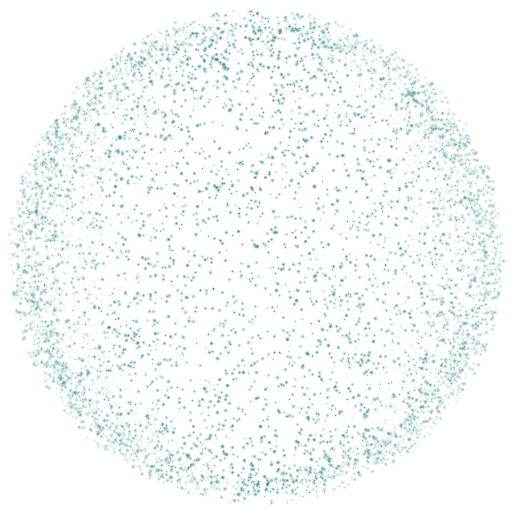
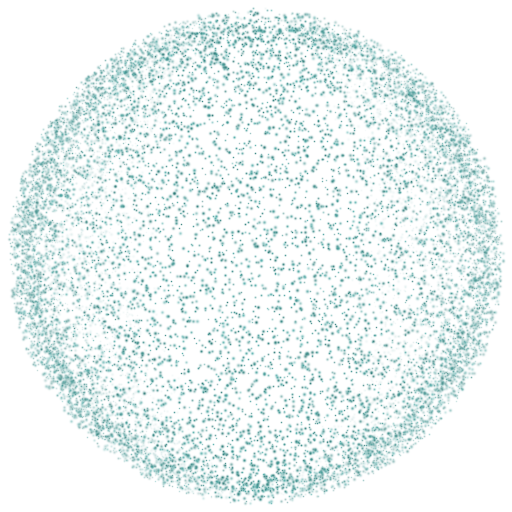
The orb is the button, and it has a body
THE WHOLE ORB IS THE TARGET, so there is no control drawn inside it. The
label was a filled, rounded, bordered pill in the middle, which said the
PILL was what to press and the orb was decoration behind it. The
Pressable has always been the full 236pt disc; a control drawn inside a
control only tells people to aim for the smaller one. Just the words now,
in signalInk, the same teal the dots are made of, so they read as part of
the cloud rather than as something resting on it.

A BODY BEHIND THE DOTS. A sphere made only of its own surface has nothing
inside it, so the middle read as a gap rather than as the near face of
something solid. A radial fill of signal sits under the cloud now: pale
at the centre where you are looking through the most of it, gone by the
rim where the dots take over and describe the form themselves.

MORE DOTS. 9000 and 5200 to 19000 and 11000. The sphere was legible but
thin, which read as a ring with scatter inside rather than as a body. The
reference packs its torso tight enough that the dots merge into a surface
everywhere except at the edges of the form.

THE FLOW IS A FADE AND THE PARTICLES. It used to be the orb's own image
blown up to nearly twice the screen width and hung above the top edge so
its bleed washed down the page, under a gradient, under a static noise
tile: three layers competing to be the background of a form somebody is
trying to type into. The orb does not belong there either -- it is the
[…]

diff --git a/app/src/components/grain.tsx b/app/src/components/grain.tsx
@@ -318,6 +318,27 @@ export function GrainOrb({ burst }: { burst?: Animated.Value }) {
         ],
       }}
     >
+      {/*
+        A body behind the dots.
+
+        The cloud on its own is just dots on the page, and a sphere made
+        only of its own surface has nothing inside it: the middle read as
+        a gap rather than as the near face of something solid. This is the
+        volume the dots are the surface OF -- pale at the centre where you
+        are looking through the most of it, gone by the rim where the dots
+        take over and do the describing themselves.
+      */}
+      <Svg width={ORB} height={ORB} style={{ position: "absolute" }} pointerEvents="none">
+        <Defs>
+          <RadialGradient id="orbBody" cx="50%" cy="50%" r="50%">
+            <Stop offset="0" stopColor={colors.signal} stopOpacity={0.3} />
+            <Stop offset="0.62" stopColor={colors.signal} stopOpacity={0.17} />
+            <Stop offset="1" stopColor={colors.signal} stopOpacity={0} />
+          </RadialGradient>
+        </Defs>
+        <Rect width={ORB} height={ORB} fill="url(#orbBody)" />
+      </Svg>
+
       {[
         { src: CLOUD_A, spin: spinA, dir: 1, to: 1.9, op: 1 },
         { src: CLOUD_B, spin: spinB, dir: -1, to: 2.4, op: 0.85 },
@@ -362,46 +383,34 @@ export function GrainOrb({ burst }: { burst?: Animated.Value }) {
 
 export function GrainWash() {
   const { width, height } = useWindowDimensions();
-  const spin = useLoop(44000);
 
-  /* Oversized and hung above the screen: only the bleed reaches the page. */
-  const size = width * 1.9;
+  /*
+    A fade and the particles, and nothing else.
 
+    This used to be the orb's own image blown up to nearly twice the
+    screen width and hung above the top edge so its bleed washed down the
+    page, under a gradient, under a static noise tile. Three layers
+    competing to be the background of a form somebody is trying to type
+    into. The orb does not belong here: it is the thing you pressed to
+    GET here, and repeating it at four times the size behind the
+    questions turns a backdrop into a second subject.
+
+    So: white at the top where the question sits, the app teal at the
+    bottom, and the same dots drifting over it that the orb is made of.
+  */
   return (
     <View style={{ position: "absolute", left: 0, top: 0, right: 0, bottom: 0 }} pointerEvents="none">
-      <Animated.Image
-        source={FIELD}
-        style={{
-          position: "absolute",
-          width: size,
-          height: size,
-          left: (width - size) / 2,
-          top: -size * 0.54,
-          transform: [{ rotate: spinTo(spin, 360) }],
-        }}
-      />
-
       <Svg width={width} height={height} style={{ position: "absolute" }}>
         <Defs>
           <LinearGradient id="washFade" x1="0" y1="0" x2="0" y2="1">
-            <Stop offset="0" stopColor={colors.bg} stopOpacity={0.5} />
-            <Stop offset="0.3" stopColor={colors.bg} stopOpacity={0.84} />
-            <Stop offset="0.58" stopColor={colors.bg} stopOpacity={1} />
+            <Stop offset="0" stopColor="#FFFFFF" stopOpacity={1} />
+            <Stop offset="0.42" stopColor={colors.signalFaint} stopOpacity={1} />
+            <Stop offset="1" stopColor={colors.signalDim} stopOpacity={1} />
           </LinearGradient>
         </Defs>
         <Rect width={width} height={height} fill="url(#washFade)" />
       </Svg>
 
-      {/*
-        The flow's only texture, and it moves.
-
-        There was a static noise tile over the whole screen at 0.42 here.
-        That was what anyone actually saw: a still photograph of grain,
-        with a few particles drifting somewhere behind it. No amount of
-        work on the moving layer shows through a still one laid on top at
-        that strength, so the still one is gone and the dust is denser to
-        take its place.
-      */}
       <DustField />
     </View>
   );

diff --git a/app/src/components/CheckinHero.tsx b/app/src/components/CheckinHero.tsx
@@ -236,29 +236,32 @@ export function CheckinHero({
           <GrainOrb burst={burst} />
 
           {/*
-            Solid, and the app's own teal.
+            The whole orb is the button, so there is no button in it.
 
-            It was a translucent dark pill, which worked when the orb was
-            a dark mass it could sink into. The orb is a pale cloud on a
-            pale page now, so a translucent control has nothing to sit
-            against and reads as a smudge. This is signalInk, the same
-            fill every other primary action in the app uses.
+            This was a pill: a filled, rounded, bordered control sitting
+            in the middle of the orb, which said that the PILL was the
+            target and the orb was decoration behind it. The opposite is
+            true. The Pressable has always been the full 236pt disc, and
+            a control drawn inside a control only tells people to aim for
+            the small one.
+
+            So: the words, and nothing else. No fill, no border, no
+            radius. They are set in signalInk, the same teal the dots are
+            made of, so they read as part of the cloud rather than as
+            something resting on top of it.
           */}
-          <Animated.View
+          <Animated.Text
             style={{
-              paddingHorizontal: 24,
-              paddingVertical: 13,
-              borderRadius: 999,
-              backgroundColor: colors.signalInk,
-
+              fontFamily: font.semibold,
+              fontSize: 17,
+              letterSpacing: 0.3,
+              color: colors.signalInk,
               /* Goes with the particles rather than sitting there as they leave. */
               opacity: burst.interpolate({ inputRange: [0, 0.45], outputRange: [1, 0], extrapolate: "clamp" }),
             }}
           >
-            <Text style={{ fontFamily: font.semibold, fontSize: 16, color: "#FFFFFF", letterSpacing: 0.2 }}>
-              Check in
-            </Text>
-          </Animated.View>
+            Check in
+          </Animated.Text>
         </Pressable>
 
         {/*
